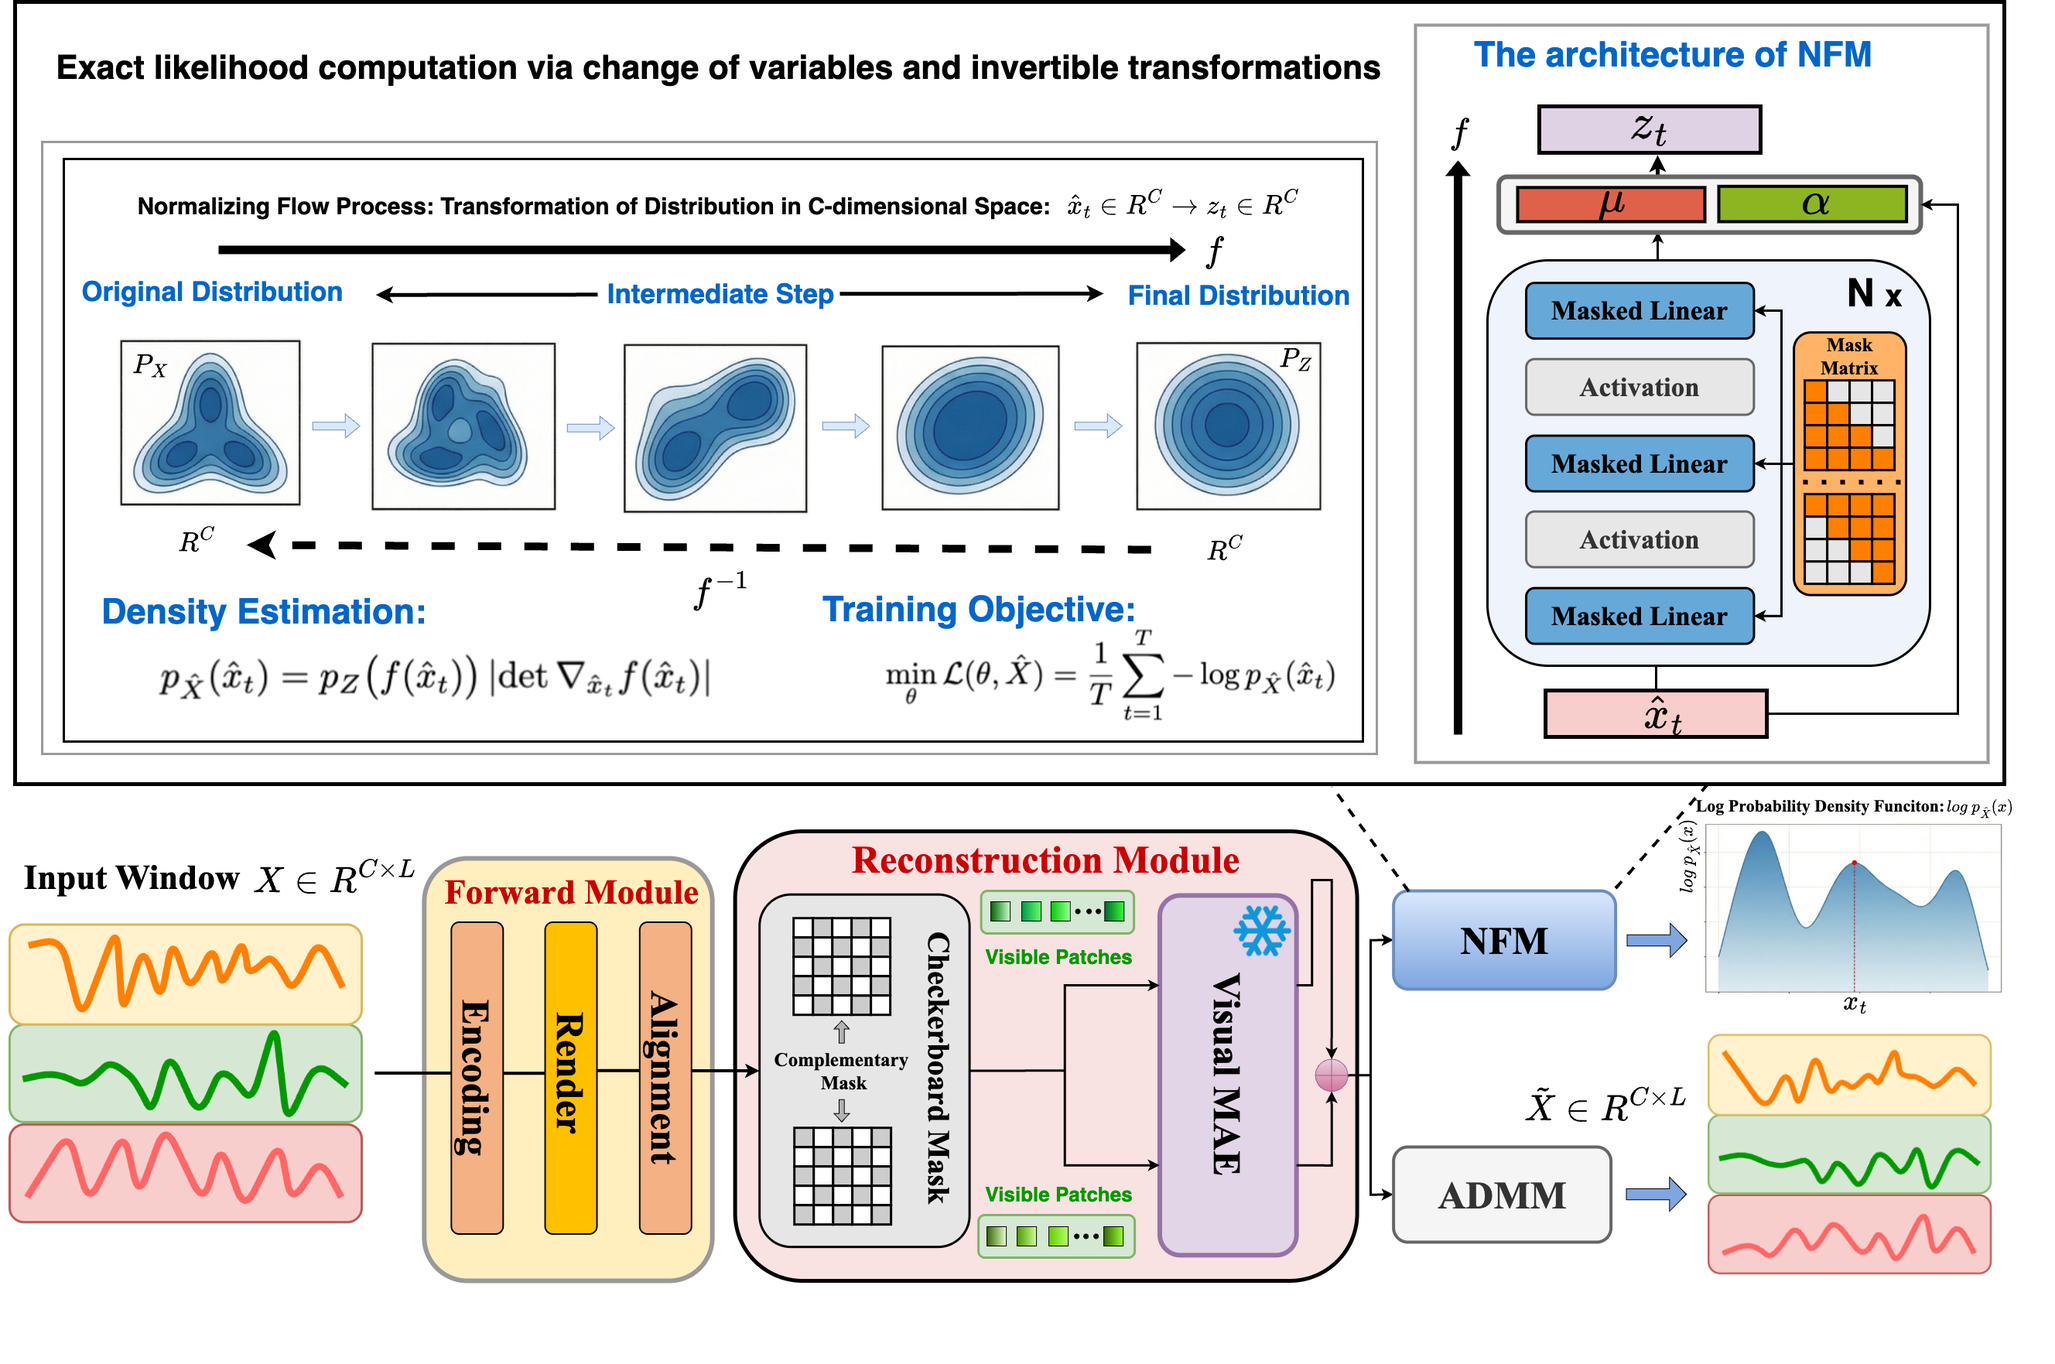
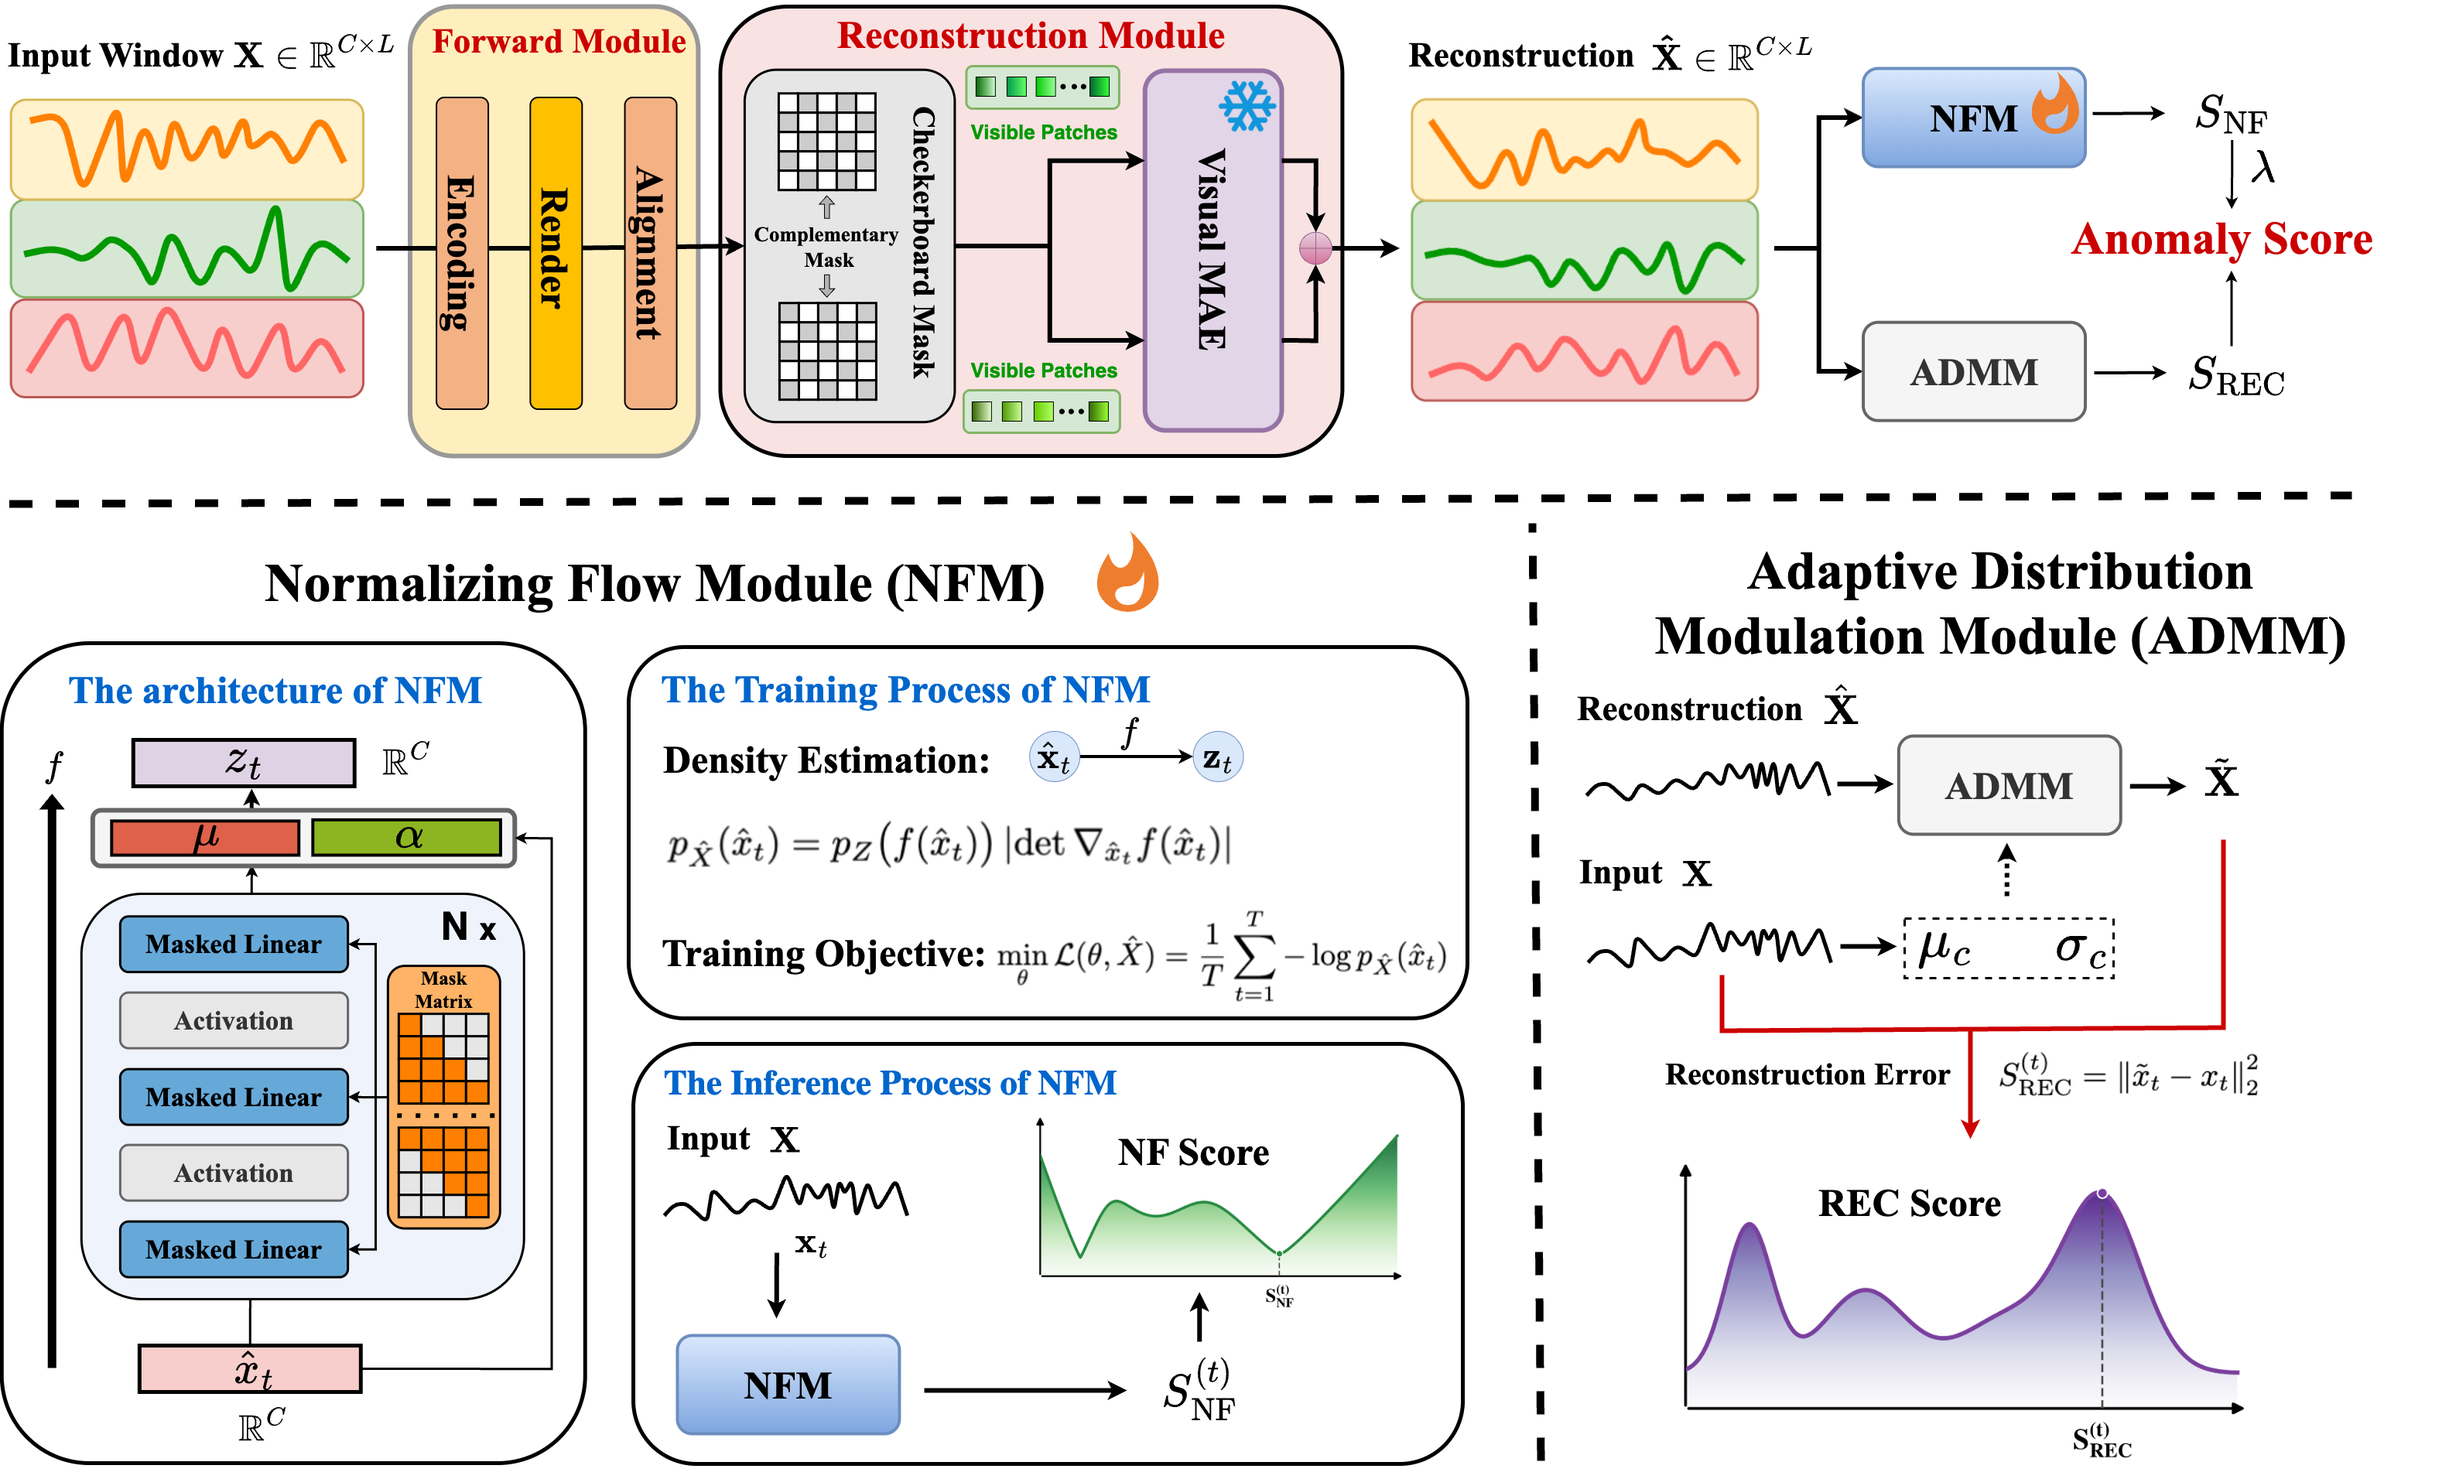
Update README.md

diff --git a/README.md b/README.md
@@ -7,7 +7,7 @@ If **VAN-AD** helps your research, please consider giving us a ⭐ star!
 [![Python](https://img.shields.io/badge/Python-3.8%2B-blue)](https://www.python.org/)  [![PyTorch](https://img.shields.io/badge/PyTorch-2.4.1-blue)](https://pytorch.org/)
 
 ## 💡 Overview
-**VAN-AD**, a novel MAE-based framework for TSAD. To alleviate the over-generalization issue of MAE, we design an **Adaptive Distribution Mapping Module (ADMM)**, which maps the reconstruction results before and after MAE into a unified statistical space to amplify discrepancies caused by abnormal patterns. To overcome the limitation of local perception, we further develop a **Normalizing Flow Module (NFM)**, which combines MAE with normalizing flow to estimate the probability density of the current window under the global distribution.
+**VAN-AD**, a novel framework that adapts a pre-trained visual Masked Autoencoder (MAE) to TSAD. To alleviate the over-generalization issue of MAE, we design an **Adaptive Distribution Modulation Module (ADMM)**, which recalibrates MAE reconstructions based on local window statistics to preserve and amplify reconstruction discrepancies associated with anomalous patterns. To overcome the limitation of local perception, we further develop a **Normalizing Flow Module (NFM)**, which models the global distribution of normal patterns and estimates the probability density of each window, thereby providing a complementary global anomaly signal.
 <div style="text-align: center;">
     <img src="docs/van-ad.png" alt="VAN-AD" style="zoom:80%;" />
 </div>
@@ -42,32 +42,9 @@ sh ./scripts/PSM.sh
 Extensive experiments on nine real-world datasets demonstrate that VAN-AD achieves state-of-the-art performance. We show the main results of all the nine real-world datasets:
 
 <div align="center">
-<img alt="exp" src="docs/main_results.png" width="100%"/>
+<img alt="exp" src="docs/main-results.png" width="100%"/>
 </div>
 
-
-<!-- ## 🛠 Setup for Running Baseline Models
-We also include scripts for baseline models (e.g., PatchTST-AT) for fair comparison:
-```shell
-sh ./scripts/multivariate_detection/detect_label/Genesis/PatchTST-AT.sh
-```
-## 🙏 Acknowledgements
-We acknowledge the following open-source projects for their outstanding contributions to the field:
-
-- TAB: Unified Benchmarking of Time Series Anomaly Detection Methods（https://github.com/decisionintelligence/TAB）
-- CATCH: Channel-Aware Multivariate Time Series Anomaly Detection via Frequency Patching（https://github.com/decisionintelligence/CATCH） -->
-
-<!-- ## 📝 Citation
-
-<!-- If you find this repo useful, please cite our paper.
-
-```
-@inproceedings{chen2025redf,
-  title     = {{RED-F}: Reconstruction-Elimination based Dual-stream Contrastive Forecasting for Multivariate Time Series Anomaly Prediction},
-  author    = {Chen, P Y and Shi, X and Chang, Y and others},
-  booktitle = {arXiv preprint arXiv:2511.20044},
-  year      = {2025}
-} -->
 
 ## 🙏 Acknowledgements
 We acknowledge the following open-source projects for their outstanding contributions to the field:
@@ -78,7 +55,7 @@ We acknowledge the following open-source projects for their outstanding contribu
 
 If you have any questions or suggestions, feel free to contact:
 - [PengYu Chen]  (penychen@bupt.edu.cn)
-- [Shang Wan]  (2025110739@bupt.cn)
+- [Shang Wan]  (wangshang@bupt.cn)
 
 - Or describe it in Issues.
 
